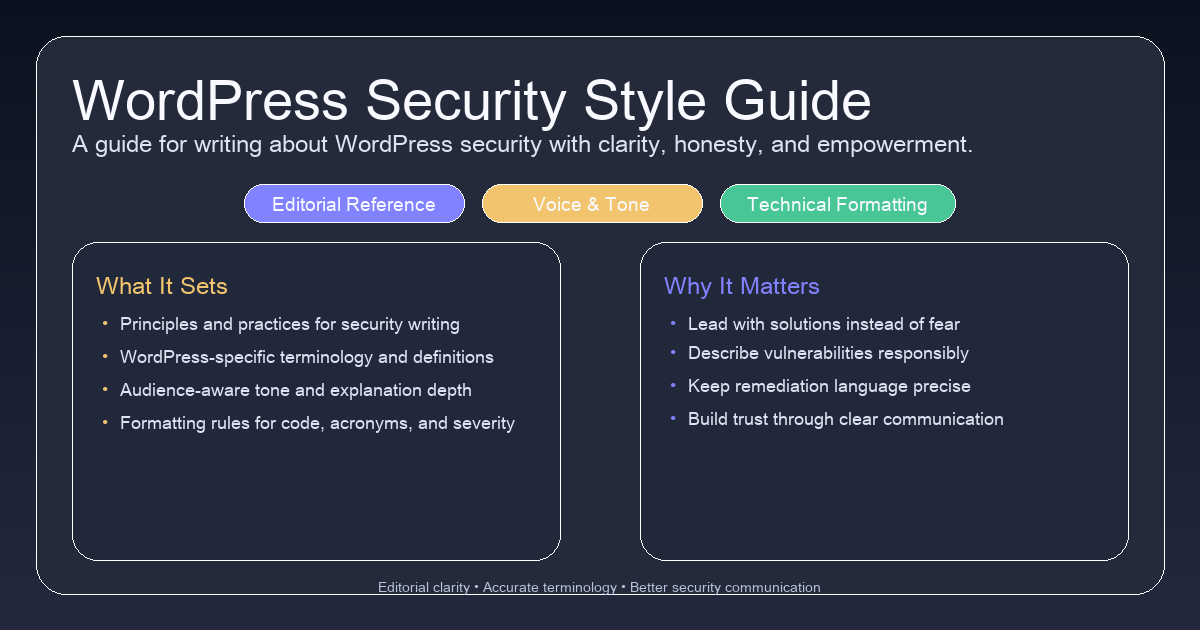
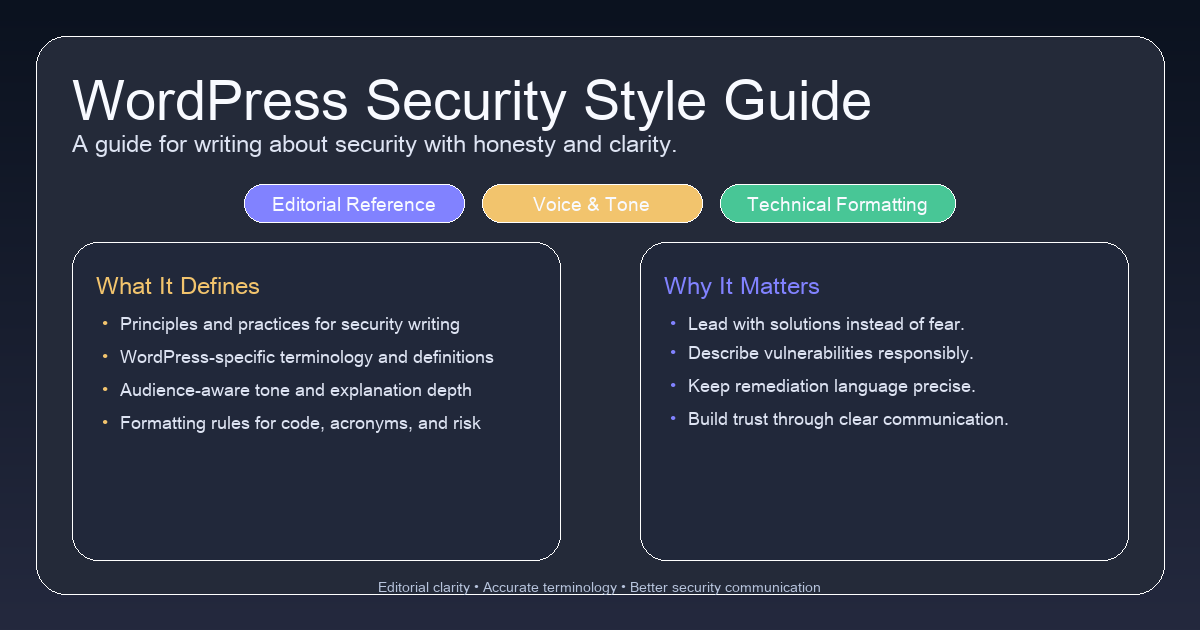
fix(wp-security-style-guide): update preview image copy
- Subtitle: 'A guide for writing about security with honesty and clarity.'
- Left panel heading: 'What It Defines' (was 'What It Sets')
- 'severity' → 'risk' in left bullets
- Right panel bullets now end with periods

Changed region(s): [[0.2775, 0.2111, 0.8017, 0.2413], [0.1542, 0.4222, 0.2158, 0.4825], [0.37, 0.6635, 0.4317, 0.6937]]

diff --git a/scripts/generate-project-previews.py b/scripts/generate-project-previews.py
@@ -121,21 +121,21 @@ SPECS = {
     },
     'wp-security-style-guide-preview.png': {
         'title': 'WordPress Security Style Guide',
-        'subtitle': 'A guide for writing about WordPress security with clarity, honesty, and empowerment.',
+        'subtitle': 'A guide for writing about security with honesty and clarity.',
         'pills': [('Editorial Reference', ACCENT), ('Voice & Tone', GOLD), ('Technical Formatting', GREEN)],
-        'left_title': 'What It Sets',
+        'left_title': 'What It Defines',
         'left_bullets': [
             'Principles and practices for security writing',
             'WordPress-specific terminology and definitions',
             'Audience-aware tone and explanation depth',
-            'Formatting rules for code, acronyms, and severity',
+            'Formatting rules for code, acronyms, and risk',
         ],
         'right_title': 'Why It Matters',
         'right_bullets': [
-            'Lead with solutions instead of fear',
-            'Describe vulnerabilities responsibly',
-            'Keep remediation language precise',
-            'Build trust through clear communication',
+            'Lead with solutions instead of fear.',
+            'Describe vulnerabilities responsibly.',
+            'Keep remediation language precise.',
+            'Build trust through clear communication.',
         ],
         'footer': 'Editorial clarity • Accurate terminology • Better security communication',
     },
